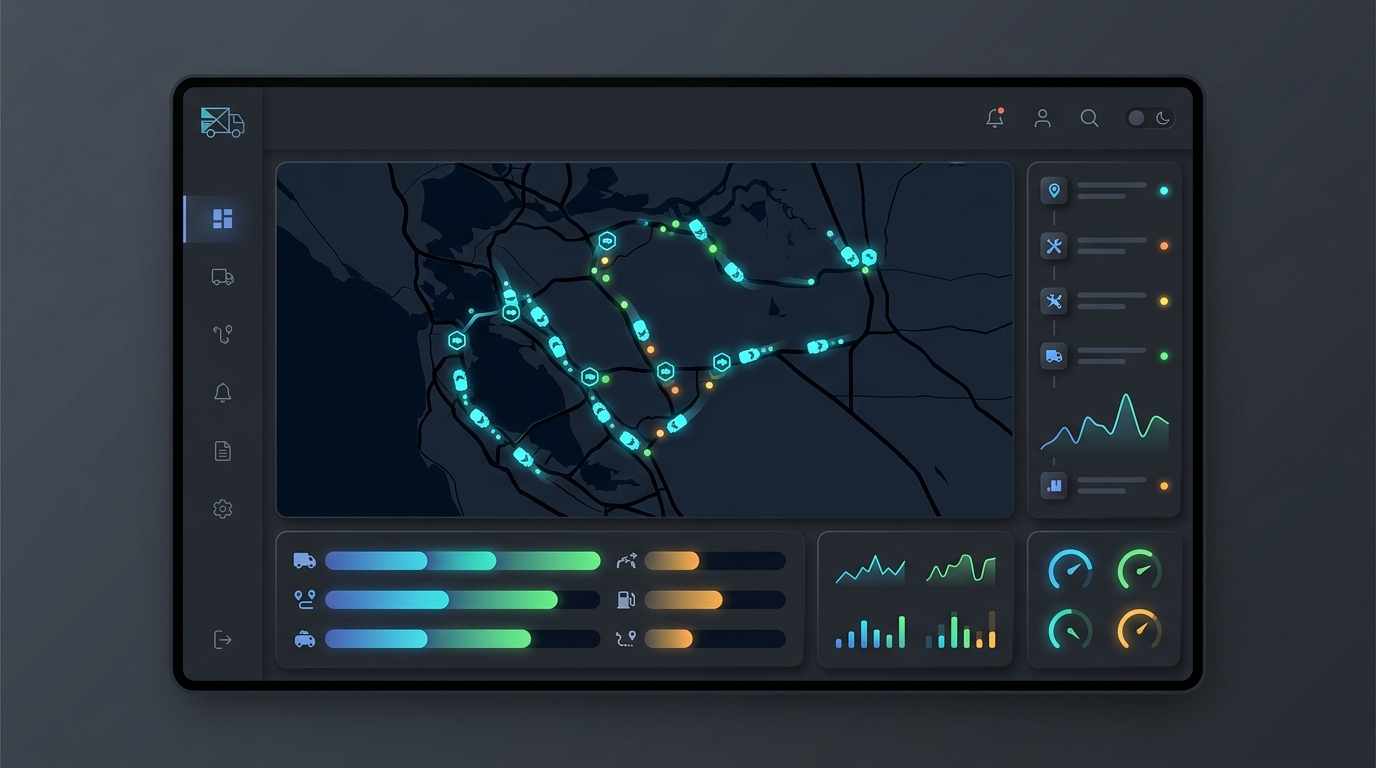
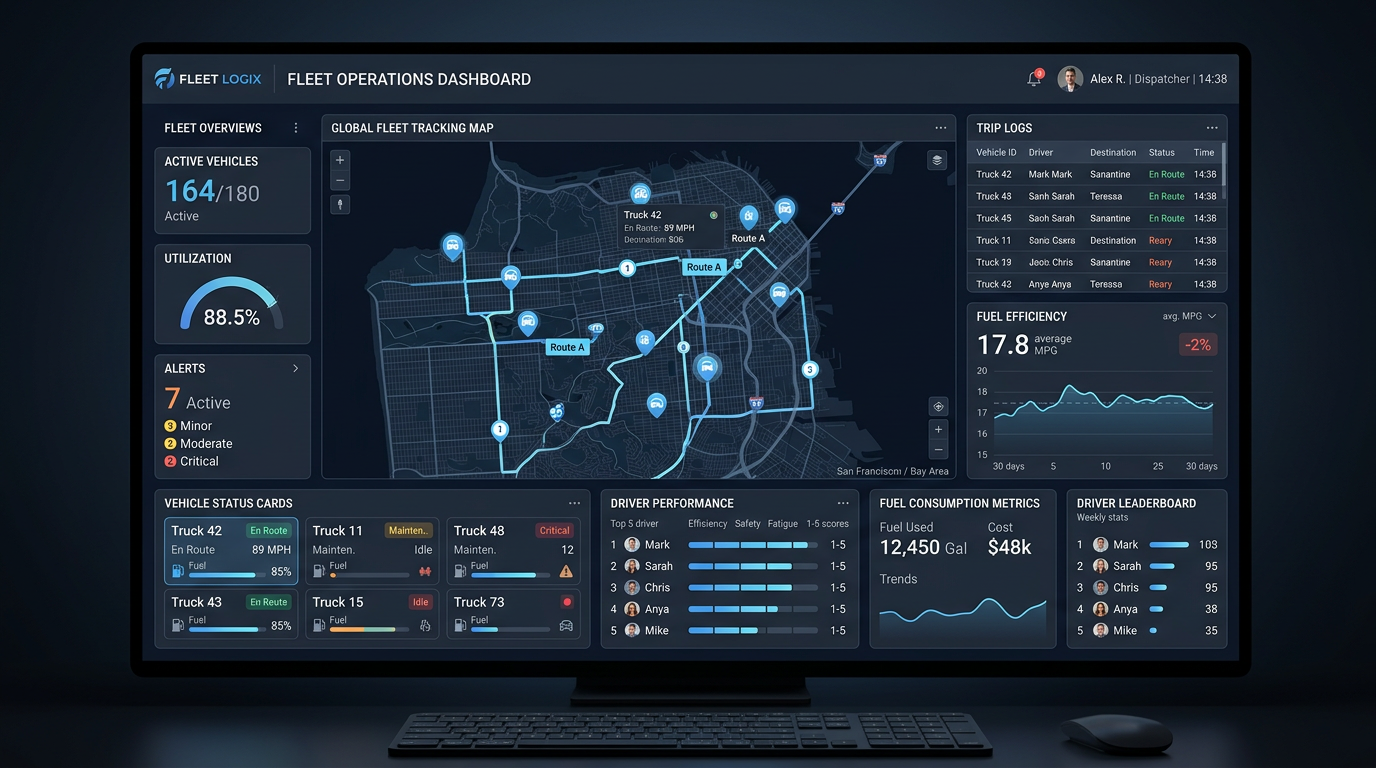
9 project showcase images + hero background + carousel images

diff --git a/css/style.css b/css/style.css
@@ -1294,7 +1294,6 @@ svg {
   width: 280px;
   min-height: 200px;
   border-radius: var(--radius);
-  padding: 24px;
   display: flex;
   flex-direction: column;
   justify-content: flex-end;
@@ -1302,6 +1301,14 @@ svg {
   overflow: hidden;
   flex-shrink: 0;
   transition: transform 0.3s var(--ease);
+}
+.showcase-card img {
+  position: absolute;
+  inset: 0;
+  width: 100%;
+  height: 100%;
+  object-fit: cover;
+  pointer-events: none;
 }
 .showcase-card:hover {
   transform: translateY(-6px);
@@ -1324,12 +1331,14 @@ svg {
 .showcase-label {
   position: relative;
   z-index: 1;
-  color: rgba(250,250,250,0.7);
+  color: rgba(250,250,250,0.9);
   font-size: 0.7rem;
   font-weight: 800;
   letter-spacing: 0.12em;
   text-transform: uppercase;
   margin-bottom: 6px;
+  padding: 0 24px;
+  text-shadow: 0 1px 4px rgba(0,0,0,0.3);
 }
 .showcase-name {
   position: relative;
@@ -1339,6 +1348,8 @@ svg {
   font-weight: 800;
   letter-spacing: -0.04em;
   line-height: 1.1;
+  padding: 0 24px 24px;
+  text-shadow: 0 1px 4px rgba(0,0,0,0.3);
 }
 @keyframes carousel-scroll {
   0% { transform: translateX(0); }